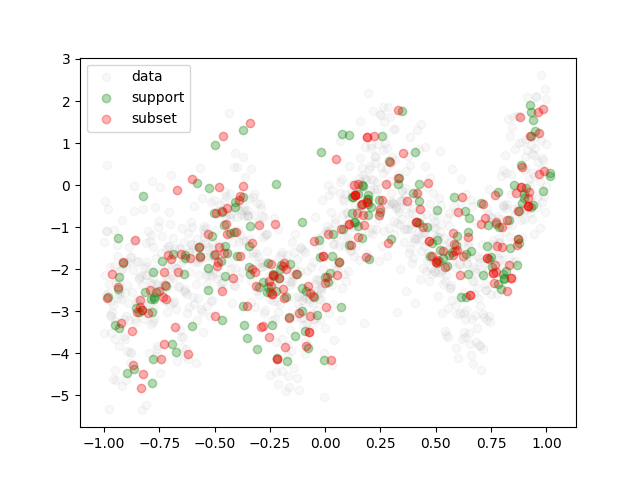
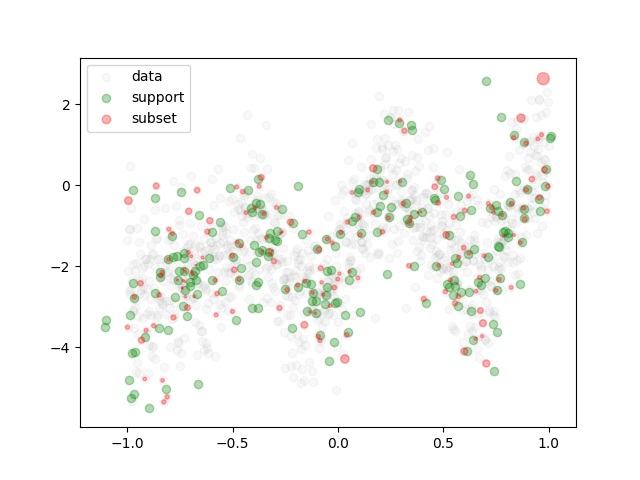
added script to run full pipeline for support/simulated points, with weighting proportional to variance

diff --git a/multivariate/weighting.py b/multivariate/weighting.py
@@ -1,3 +1,4 @@
+import argparse
 import matplotlib
 matplotlib.use('Agg')
 import matplotlib.pyplot as plt
@@ -5,45 +6,90 @@ import numpy as np
 import os
 import pdb
 from numpy.linalg import norm
+from scipy.spatial.distance import pdist
+
+
+parser = argparse.ArgumentParser()
+parser.add_argument('--snap', type=int, default=0, choices=[0, 1])
+parser.add_argument('--data_file', type=str, default='gp_data.txt')
+args = parser.parse_args()
+snap = args.snap
+data_file = args.data_file
 
 
 def nearest(target, arr):
     nearest_dist = 1e10
     nearest_neighbor = [0, 0]
-    for candidate in arr:
+    nearest_index = 0
+    for index, candidate in enumerate(arr):
         dist = norm(target - candidate)
         if dist < nearest_dist:
             nearest_dist = dist
             nearest_neighbor = candidate 
-    return nearest_dist, np.array(nearest_neighbor)
+            nearest_index = index
+    return nearest_dist, np.array(nearest_neighbor), nearest_index
 
 
 # Load data and support points.
-data = np.loadtxt(open('gp_data.txt', 'rb'), delimiter=' ')
+data = np.loadtxt(open(data_file, 'rb'), delimiter=' ')
 support_points = np.load('g_out.npy')
 
 assert data.shape[1] == support_points.shape[1], \
     'dimension of data and support points.g must match'
 
 # Get datapoints (the subset) closest to support points.
-subset = []
-for sp in support_points:
-    _, nearest_neighbor = nearest(sp, data)
-    subset.append(nearest_neighbor)
-np.save('subset.npy', np.array(subset))
+if snap:
+    subset = np.zeros(support_points.shape)
+    for index, sp in enumerate(support_points):
+        _, nearest_neighbor, _ = nearest(sp, data)
+        subset[index] = nearest_neighbor
+    np.save('subset.npy', subset)
+else:
+    subset = support_points
 
-# Plot data, support points, and subset.
-fig, ax = plt.subplots()
-ax.scatter(*zip(*data), color='gray', alpha=0.05, label='data')
-ax.scatter(*zip(*support_points), color='green', alpha=0.3, label='support')
-ax.scatter(*zip(*subset), color='red', alpha=0.3, label='subset')
-ax.legend()
-plt.savefig('plot_data_support_subset.png')
+# Compute subset weights. First compute pairwise distances. Then find minimum
+# distance to nearest neighbor.
+n_subset = len(subset)
+pairwise_distances = np.zeros((n_subset, n_subset))
+for i in range(n_subset):
+    for j in range(n_subset):
+        distance = norm(subset[i] - subset[j]) 
+        pairwise_distances[i][j] = distance
+subset_weights = np.zeros(n_subset) 
+for i in range(n_subset):
+    min_non_diag_distance = sorted(pairwise_distances[i])[1]
+    subset_weights[i] = min_non_diag_distance
+subset_weights = subset_weights / max(subset_weights)
+np.save('weights_subset.npy', subset_weights)
 
 # Compute data weights.
-c = 1
-weights = np.zeros(data.shape[0])
+c = 1.0  # Higher value means weight drops faster as distance increases.
+data_weights = np.zeros(data.shape[0])
 for index, dp in enumerate(data):
-    nearest_dist, _ = nearest(dp, subset) 
-    weights[index] = c * 1.0 / (nearest_dist + 1e-6)
-np.save('weights.npy', weights)
+    nearest_dist, _, nearest_index = nearest(dp, subset) 
+    data_weights[index] = subset_weights[nearest_index] / (c * nearest_dist + 1e-6)
+np.save('weights_data.npy', data_weights)
+
+
+# PLOTTING: Plot data, support points, and subset.
+fig, ax = plt.subplots()
+ax.scatter(*zip(*data), color='gray', alpha=0.05, label='data')
+if snap:
+    ax.scatter(*zip(*support_points), color='green', alpha=0.3, label='support')
+    ax.scatter(*zip(*subset), color='red', alpha=0.3, label='subset', s=75*subset_weights)
+    ax.legend()
+    plt.savefig('plots/plot_data_support_subset.png')
+else:
+    ax.scatter(*zip(*support_points), color='green', alpha=0.3, label='support', s=75*subset_weights)
+    ax.legend()
+    plt.savefig('plots/plot_data_subset.png')
+
+fig, ax = plt.subplots()
+ax.plot(subset_weights, color='gray', label='subset_weights')
+ax.legend()
+plt.savefig('plots/weights_subset.png')
+
+fig, ax = plt.subplots()
+ax.plot(data_weights, color='gray', label='data_weights')
+ax.legend()
+plt.savefig('plots/weights_data.png')

diff --git a/multivariate/multivariate_mmd_gan.py b/multivariate/multivariate_mmd_gan.py
@@ -15,15 +15,15 @@ import pandas as pd
 # Config.
 parser = argparse.ArgumentParser()
 parser.add_argument('--data_num', type=int, default=1000)
-parser.add_argument('--batch_size', type=int, default=100)
-parser.add_argument('--z_dim', type=int, default=2)
+parser.add_argument('--batch_size', type=int, default=200)
+parser.add_argument('--z_dim', type=int, default=3)
 parser.add_argument('--width', type=int, default=10,
                     help='width of generator layers')
-parser.add_argument('--depth', type=int, default=10,
+parser.add_argument('--depth', type=int, default=20,
                     help='num of generator layers')
-parser.add_argument('--log_step', type=int, default=10000)
+parser.add_argument('--log_step', type=int, default=1000)
 parser.add_argument('--max_step', type=int, default=200000)
-parser.add_argument('--learning_rate', type=float, default=1e-4)
+parser.add_argument('--learning_rate', type=float, default=1e-3)
 parser.add_argument('--optimizer', type=str, default='rmsprop',
                     choices=['adagrad', 'adam', 'gradientdescent', 'rmsprop'])
 parser.add_argument('--data_file', type=str, default=None)
@@ -104,7 +104,8 @@ def generator(z, width=3, depth=3, activation=tf.nn.elu, out_dim=2,
         x = layers.dense(z, width, activation=activation)
 
         for idx in range(depth - 1):
-            x = layers.dense(x, width, activation=activation)
+            x_ = layers.dense(x, width, activation=activation)
+            x = layers.batch_normalization(x_) + x  # {batchnorm, shortcut}
 
         out = layers.dense(x, out_dim, activation=None)
     vars_g = tf.contrib.framework.get_variables(vs_g)
